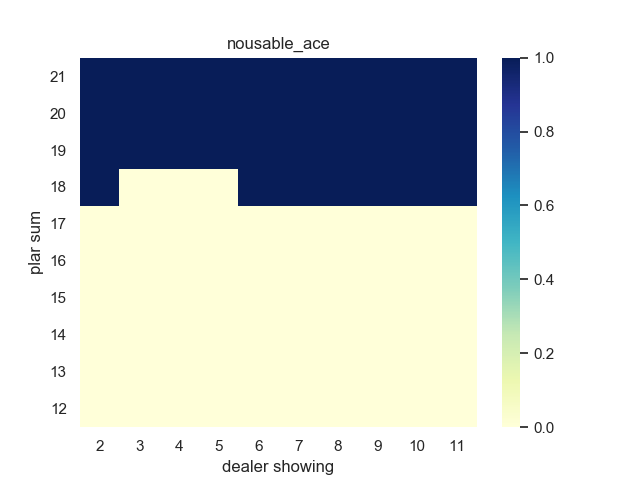
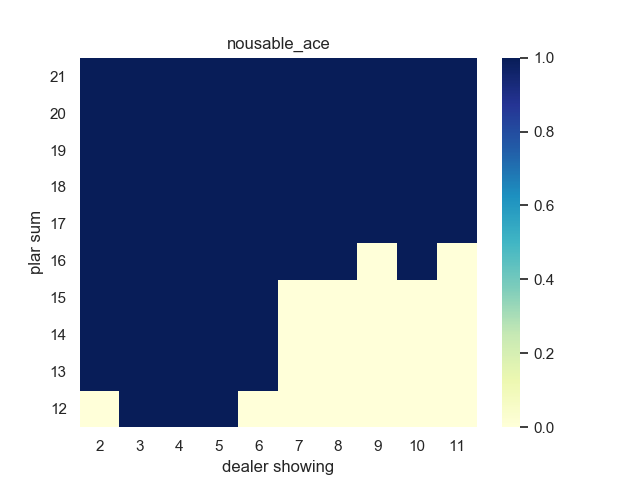
es

Changed region(s): [[0.125, 0.3438, 0.75, 0.9062]]

diff --git a/chap5/es/blackjack.py b/chap5/es/blackjack.py
@@ -30,6 +30,7 @@ import random
 import time
 import seaborn as sns
 import matplotlib.pyplot as plt
+from tqdm import tqdm
 
 STICK_ACTION = 0
 HIT_ACTION = 1
@@ -40,48 +41,8 @@ Q = np.zeros([10, 10, 2, 2])  # player's sum, dealer's sum, usable ace, action
 
 # 0: nousable_ace  1: usable_ace
 # 0: STICK_ACTION  1: HIT_ACTION
-# initialize probability. p(a|s) > 0 for all actions in state s
 # player's sum, dealer's sum, usable_ace, action 
-POLICY = np.zeros([10, 10, 2, 2]) + 0.5
-
-
-def random_state():
-    '''
-    return [play's sum, dealer's showing, usable ace]
-    play's sum ranges in [12, 21]
-    dealer's sum ranges in [2, 11]
-    usable ace  0 no  1 yes
-    '''
-    random.seed()
-    r = random.randint(0, 199)
-    if r < 100:
-        return [int(r / 10) + 12, (r % 10) + 2, 0]
-    r -= 100
-    return [int(r / 10) + 12, (r % 10) + 2, 1]
-
-def random_action():
-    return random.randint(0, 1)  
-
-def random_card():
-    random.seed()
-    return random.randint(1, 10)
-
-
-def dealer(showing, dealer_usable_ace):
-    sum = showing
-    while sum < 17:
-        card = random_card()
-        if card == 1:
-            if sum + 11 <= 21:
-                sum += 11
-            else:
-                sum += 1
-        else:
-            sum += card
-        if sum > 21:
-            if dealer_usable_ace:
-                sum -= 10
-    return sum
+POLICY = np.zeros([10, 10, 2, 2])
 
 
 class State:
@@ -110,9 +71,6 @@ class State:
         '''
         return self.u
 
-    def disable_ace(self):
-        self.u = 0
-
 
 class Episode:
 
@@ -129,6 +87,9 @@ class Episode:
 
     def add_reward(self, reward):
         self.reward_list.append(reward)
+
+    def length(self):
+        return len(self.states_list)
         
     def states(self):
         return self.states_list
@@ -140,105 +101,7 @@ class Episode:
         return self.reward_list
 
 
-def random_start_state():
-    player_sum = random.randint(12, 21)
-    dealer_showing = random.randint(1, 10)
-    dealer_usable_ace = False
-    if dealer_showing == 1:
-        dealer_showing = 11
-        dealer_usable_ace = True
-    usable_ace = random.randint(0, 1)
-    return State(player_sum, dealer_showing, usable_ace), dealer_usable_ace
-
-def get_action(state):
-    '''
-    STICK_ACTION 0
-    HIT_ACTION   1
-    '''
-    global HIT_ACTION, STICK_ACTION
-    ps = state.player_sum() - 12
-    ds = state.dealer_showing() - 2
-    u = state.usable_ace()
-    p = POLICY[ps][ds][u]
-    if p[0] > p[1]:
-        return STICK_ACTION
-    return HIT_ACTION
-
-def generate_episode():
-    '''
-    return episode
-    '''
-    global HIT_ACTION, STICK_ACTION
-    episode = Episode()
-    state, dealer_usable_ace = random_start_state()
-    action = random_action()
-    next_state = State(state.player_sum(), state.dealer_showing(), state.usable_ace())
-    while action == HIT_ACTION:
-        episode.add_state(next_state)
-        episode.add_action(action)
-        card = random_card()
-        new_sum = next_state.player_sum() + card
-        if new_sum > 21:  # burst
-            if next_state.usable_ace():
-                new_sum -= 10
-                next_state.disable_ace()
-                episode.add_reward(0)
-            else:
-                episode.add_reward(-1)
-                return episode
-        else:
-            episode.add_reward(0)
-        next_state = State(new_sum, next_state.dealer_showing(), next_state.usable_ace())
-        # action = get_action(next_state)
-        action = random_action()
-    episode.add_state(next_state)
-    episode.add_action(action)
-    dealer_sum = dealer(state.dealer_showing(), dealer_usable_ace)
-    if next_state.player_sum() > dealer_sum:
-        episode.add_reward(1)
-    elif next_state.player_sum() < dealer_sum:
-        episode.add_reward(-1)
-    else:
-        episode.add_reward(0)
-    return episode
-
-def update_policy(player_sum, dealer_showing, usable_ace):
-    global POLICY, Q
-    ps = player_sum - 12
-    ds = dealer_showing - 2
-    if Q[ps][ds][usable_ace][0] > Q[ps][ds][usable_ace][1]:
-        POLICY[ps][ds][usable_ace][0] = 1.0
-        POLICY[ps][ds][usable_ace][1] = 0.0
-    else:
-        POLICY[ps][ds][usable_ace][1] = 1.0
-        POLICY[ps][ds][usable_ace][0] = 0.0
-
-def run():
-    global COUNT, Q
-    count = 300000
-    for _ in range(count):
-        episode = generate_episode()
-        l = len(episode.states())
-        g = 0.0
-        states = episode.states()
-        actions = episode.action()
-        rewards = episode.reward()
-        cache = set()
-        for j in range(l):
-            i = l - j - 1
-            g = 0.9 * g + rewards[i]
-            ps = states[i].player_sum()
-            ds = states[i].dealer_showing()
-            u = states[i].usable_ace()
-            key = '%d_%d_%d' % (ps, ds, u)
-            if key not in cache:
-                cache.add(key)
-                COUNT[ps-12][ds-2][u][actions[i]] += 1
-                Q[ps-12][ds-2][u][actions[i]] += (rewards[i] - Q[ps-12][ds-2][u][actions[i]]) / COUNT[ps-12][ds-2][u][actions[i]]
-                update_policy(ps, ds, u)
-
-
-def show_image(episode, b, title):
+def show_image(episode, title):
     sns.set()
     data = np.asarray(np.zeros((22, 12), dtype=float))
     for e in episode:
@@ -262,36 +125,155 @@ def draw():
             nousable_action = 0.0
             if POLICY[p][d][0][0] == 1.0:  # nousable_ace    stick_action
                 nousable_action = 1.0       # stick
-            else:
-                nousable_action = 0.0       # hit
-            nousable_ace_episode.append([p, d, int(nousable_action)])
+            nousable_ace_episode.append([p, d, nousable_action])
 
             usable_action = 0.0
             if POLICY[p][d][1][0] == 1.0:
                 usable_action = 1.0        # stick
+            usable_ace_episode.append([p, d, usable_action])
+    show_image(nousable_ace_episode, 'nousable_ace')
+    show_image(usable_ace_episode, 'usable_ace')
+
+
+def random_card():
+    random.seed()
+    c = random.randint(1, 13)
+    return min(c, 10)
+
+def init_player_state():
+    '''
+    initialize player state
+    return sum, usable ace
+    '''
+    s = 0
+    u = 0
+    while s < 12:
+        c = random_card()
+        if c == 1:
+            if s + 11 > 21:
+                s += 1
             else:
-                usable_action = 0.0        # hit
-            usable_ace_episode.append([p, d, int(usable_action)])
-    show_image(nousable_ace_episode, False, 'nousable_ace')
-    show_image(usable_ace_episode, True, 'usable_ace')
+                u = 1
+                s += 11
+        else:
+            s += c
+    return s, u
+
+def init_dealer_state():
+    '''
+    initialize dealer state
+    return dealer_showing, dealer usable ace
+    '''
+    s = random_card()
+    u = 0
+    if s == 1:
+        s = 11
+        u = 1
+    return s, u
+
+def init_start_state():
+    '''
+    initialize start state
+    '''
+    p, u = init_player_state()
+    d, du = init_dealer_state()
+    return State(p, d, u), du
+
+def random_action(state):
+    return random.randint(0, 1)
+
+def policy_action(state):
+    ps, d, u = state.player_sum(), state.dealer_showing(), state.usable_ace()
+    q = Q[ps-12][d-2][u]
+    if q[0] > q[1]:
+        return 0
+    elif q[0] == q[1]:
+        return np.random.choice([0, 1])
+    return 1
 
 
-def printout():
-    i = 0
-    for p in range(10):
-        for d in range(10):
+def process():
+    episode = Episode()
+    state, du = init_start_state()
+    action = random_action(state)
+    episode.add_state(state)
+    episode.add_action(action)
+    next_state = State(state.player_sum(), state.dealer_showing(), state.usable_ace())
+    # player's turn
+    while True:
+        if action == STICK_ACTION:
+            break
+        new_sum = 0
+        new_usable_ace = next_state.usable_ace()
+        card = random_card()
+        if card == 1:
+            s = next_state.player_sum()
+            new_sum = s
+            if s + 11 > 21:
+                new_sum += 1
+            else:
+                new_sum += 11
+                new_usable_ace = 1
+        else:
+            new_sum = next_state.player_sum() + card
+        if new_sum > 21:
+            if new_usable_ace == 0:
+                return episode, -1
+            new_usable_ace = 0
+            new_sum -= 10
+        episode.add_reward(0)
+        next_state = State(new_sum, next_state.dealer_showing(), new_usable_ace)
+        action = policy_action(next_state)
+        episode.add_state(next_state)
+        episode.add_action(action)
+
+    # dealder's turn
+    dealer_sum = state.dealer_showing()
+    while True:
+        if dealer_sum >= 17:
+            break
+        card = random_card()
+        if card == 1:
+            if dealer_sum + 11 > 21:
+                dealer_sum += 1
+            else:
+                dealer_sum += 11
+                du = 1
+        else:
+            dealer_sum += card
+        if dealer_sum > 21:
+            if du == 1:
+                dealer_sum -= 10
+                du = 0
+            else:
+                return episode, 1
+    if next_state.player_sum() > dealer_sum:
+        return episode, 1
+    elif next_state.player_sum() == dealer_sum:
+        return episode, 0
+    else:
+        return episode, -1
+
+def run():
+    global POLICY, Q, COUNT
+    for _ in tqdm(range(500000)):
+        episode, reward = process()
+        states = episode.states()
+        actions = episode.action()
+        g = 0.0
+        for i in range(episode.length()):
+            s = states[i]
+            a = actions[i]
+            g = 0.9 * g + reward
+            COUNT[s.player_sum() - 12][s.dealer_showing() - 2][s.usable_ace()][a] += 1
+            Q[s.player_sum() - 12][s.dealer_showing() - 2][s.usable_ace()][a] += g
+    p = Q / COUNT
+    for i in range(10):
+        for j in range(10):
             for u in range(2):
-                for a in range(2):
-                    k = '%d_%d_%d_%d' % (p+12, d+2, u, a)
-                    v = POLICY[p][d][u][a]
-                    i += 1
-                    print(k, ' = ', v) 
-                    if i % 2 == 0:
-                        print('-----------------')
+                POLICY[i][j][u][np.argmax(p[i][j][u])] = 1.0
+
 
 if __name__ == "__main__":
     run()
-    # printout()
     draw()
-
-    
